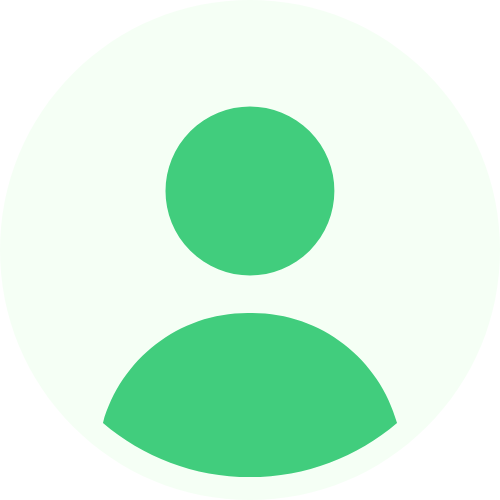
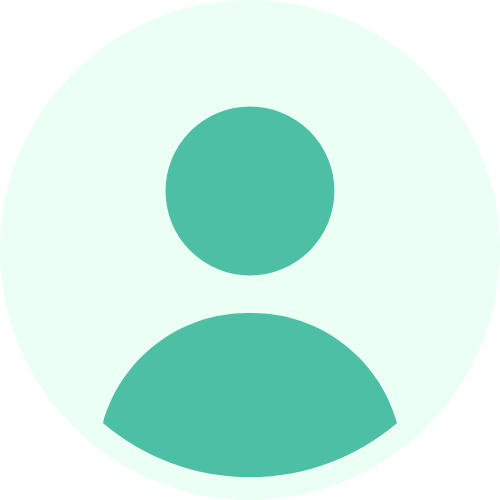
📦 Chore: 이미지 색상 변경 및 500 에러 색상 변경 (#105)
* 📦 Chore: 기본 프로필 사진 색상 변경

* 📦 Chore: 위키비키 로고 색상 변경

* 📦 Chore: 이미지 없는 게시물 사진 색상 변경

* 💄 Design: 500 페이지 색상 변경

Changed region(s): [[0.21, 0.6, 0.81, 0.96], [0.33, 0.21, 0.69, 0.57]]

diff --git a/src/components/common/CustomError.tsx b/src/components/common/CustomError.tsx
@@ -4,7 +4,8 @@ import router from 'next/router';
 import Image from 'next/image';
 import Lottie from 'lottie-react';
 import CommonButton from '@/components/common/CommonButton';
-import ErrorLottie from '@/../public/lottie/404.json';
+import Error404Lottie from '@/../public/lottie/404.json';
+import Error500Lottie from '@/../public/lottie/error.json';
 
 interface CustomErrorProps {
   type: '404' | '500';
@@ -33,9 +34,12 @@ const CustomError: React.FC<CustomErrorProps> = ({ type }) => {
           <Image src="/image/logo-background.png" alt="이미지" width={1920} height={1080} />
         </div>
         {type === '404' ? (
-          <Lottie animationData={ErrorLottie} style={{ width: '300px', height: '200px' }} />
+          <Lottie animationData={Error404Lottie} style={{ width: '300px', height: '200px' }} />
         ) : (
-          <></>
+          <Lottie
+            animationData={Error500Lottie}
+            style={{ width: '200px', height: '150px', marginBottom: '50px' }}
+          />
         )}
         <span className="z-50 text-2xl-bold text-grayscale-500">
           {type === '404' ? (
@@ -44,11 +48,15 @@ const CustomError: React.FC<CustomErrorProps> = ({ type }) => {
             </>
           ) : (
             <>
-              죄송합니다. <span className="text-primary-green-300">시스템 오류</span>입니다
+              죄송합니다. <span className="text-secondary-red-200">시스템 오류</span>입니다
             </>
           )}
         </span>
-        <div className="z-50 my-10 border-l-4 border-l-primary-green-300 pl-4 text-lg-medium text-grayscale-500">
+        <div
+          className={`z-50 my-10 border-l-4 pl-4 text-lg-medium text-grayscale-500 ${
+            type === '404' ? 'border-l-primary-green-300' : 'border-l-secondary-red-200'
+          }`}
+        >
           {type === '404' ? (
             <>
               <p>존재하지 않거나, 사용할 수 없는 페이지입니다.</p>
@@ -66,14 +74,14 @@ const CustomError: React.FC<CustomErrorProps> = ({ type }) => {
             onClick={() => {
               router.back();
             }}
-            className=" hover:bg-primary-green-200  hover:text-gray-50"
+            className={`hover:text-gray-50 ${type === '404' ? 'hover:bg-primary-green-200' : 'border-secondary-red-200 text-secondary-red-200 hover:bg-secondary-red-200'}`}
             variant="secondary"
           >
             이전 페이지로 이동
           </CommonButton>
           <Link href="/">
             <CommonButton
-              className=" hover:bg-primary-green-200 hover:text-gray-50"
+              className={`hover:text-gray-50 ${type === '404' ? 'hover:bg-primary-green-200' : 'border-secondary-red-200 text-secondary-red-200 hover:bg-secondary-red-200'}`}
               variant="secondary"
             >
               메인 페이지로 이동

diff --git a/src/pages/board/[boardId]/edit.tsx b/src/pages/board/[boardId]/edit.tsx
@@ -63,7 +63,7 @@ const EditBoard = () => {
       content: newContent,
       image: firstImageSrc
         ? firstImageSrc
-        : 'https://sprint-fe-project.s3.ap-northeast-2.amazonaws.com/Wikied/user/133/1720006227876/empty-image.png',
+        : 'https://sprint-fe-project.s3.ap-northeast-2.amazonaws.com/Wikied/user/133/1720177203844/noimage.png',
     };
 
     try {
